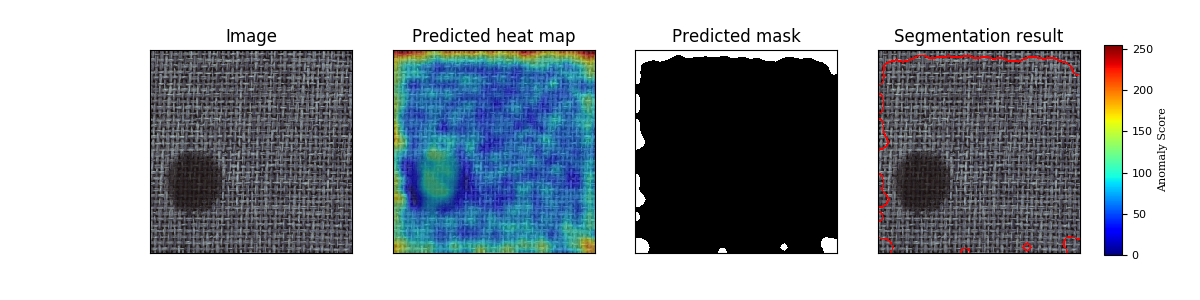
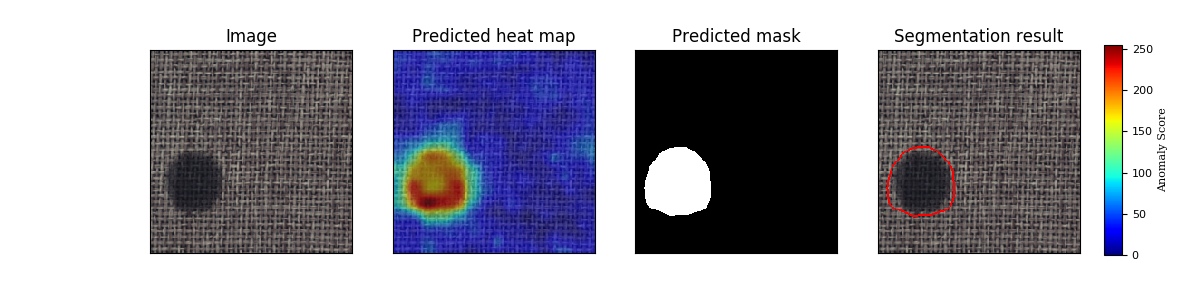
fix infer bug. random seed should be eq to train seed

diff --git a/infer.py b/infer.py
@@ -19,6 +19,7 @@ import argparse
 import pickle
 import numpy as np
 import datetime
+import random
 from PIL import Image
 from random import sample
 from collections import OrderedDict
@@ -64,6 +65,7 @@ def parse_args():
     parser.add_argument("--save_path", type=str, default='./test_tipc/output/')
     parser.add_argument("--category", type=str, default='capsule')
     parser.add_argument("--distribution", type=str, default='./test_tipc/output/distribution')
+    parser.add_argument("--seed", type=int, default=42)
 
     return parser.parse_args()
 
@@ -182,7 +184,7 @@ def postprocess(args, test_imgs, class_name, outputs, distribution):
     test_outputs = OrderedDict([('layer1', []), ('layer2', []), ('layer3', [])])
     # get intermediate layer outputs
     for k, v in zip(test_outputs.keys(), outputs):
-        test_outputs[k].append(v.cpu().detach())
+        test_outputs[k].append(v.detach())
     for k, v in test_outputs.items():
         test_outputs[k] = paddle.concat(v, 0)
 
@@ -194,24 +196,22 @@ def postprocess(args, test_imgs, class_name, outputs, distribution):
         embedding_vectors = paddle.concat((embedding_vectors, layer_embedding), 1)
 
     # randomly select d dimension
-    embedding_vectors = paddle.index_select(embedding_vectors,  idx, 1)
+    embedding_vectors = paddle.index_select(embedding_vectors, idx, 1)
 
     # calculate distance matrix
     B, C, H, W = embedding_vectors.shape
-    embedding_vectors = embedding_vectors.reshape((B, C, H * W)).numpy()
-    dist_list = []
-    for i in range(H * W):
-        mean = distribution[0][:, i]
-        conv_inv = np.linalg.inv(distribution[1][:, :, i])
-        dist = [mahalanobis(sample[:, i], mean, conv_inv) for sample in embedding_vectors]
-        dist_list.append(dist)
+    embedding = embedding_vectors.reshape((B, C, H * W))
+    # calculate mahalanobis distances
+    mean, covariance = paddle.to_tensor(distribution[0]), paddle.to_tensor(distribution[1])
+    inv_covariance = paddle.linalg.inv(covariance.transpose((2, 0, 1)))
 
-    dist_list = np.array(dist_list).transpose(1, 0).reshape(B, H, W)
-    # upsample
-    dist_list = paddle.to_tensor(dist_list)
-    score_map = F.interpolate(dist_list.unsqueeze(1), size=(224,224), mode='bilinear',
-                              align_corners=False).squeeze(1).numpy()
+    delta = (embedding - mean).transpose((2, 0, 1))
 
+    distances = (paddle.matmul(delta, inv_covariance) * delta).sum(2).transpose((1, 0))
+    distances = distances.reshape((B, H, W))
+    distances = paddle.sqrt(distances)
+    score_map = F.interpolate(distances.unsqueeze(1), size=(224,224), mode='bilinear',
+                            align_corners=False).squeeze(1).numpy()
 
     # apply gaussian smoothing on the score map
     for i in range(score_map.shape[0]):
@@ -284,6 +284,9 @@ def denormalization(x):
 
 def main():
     args = parse_args()
+
+    random.seed(args.seed)
+    paddle.seed(args.seed)
 
     model_name = 'PaDiM'
     print(f"Inference model({model_name})...")
@@ -374,7 +377,7 @@ def main():
             output_data = output_tensor.copy_to_cpu()
             results.append(output_data)
 
-        # postprocess(args, test_imgs, args.category, results, distribution) # 可视化
+        postprocess(args, test_imgs, args.category, results, distribution) # 可视化
 
         # get post process time cost
         if args.enable_benchmark:

diff --git a/README.md b/README.md
@@ -136,18 +136,19 @@ TIPC结果：
 - 预训练模型的静态图导出与推理测试：
 
 ```shell
-python export_model.py --depth 18 --img_size=224 --model_path=./test_tipc/output/carpet/best.pdparams --save_dir=./test_tipc/output
+python export_model.py --depth 18 --img_size=224 --model_path=./output/carpet/best.pdparams --save_dir=./output
 ```
 注意：由于该算法并不训练模型，仅仅由预训练模型生成数据分布数据，因此导出分为两个部分，一部分是预训练模型（`model.pdiparams,model.pdmodel`），一部分是分布数据(`distribution`)。
 
 ```shell
-python infer.py --use_gpu=True --model_file=./test_tipc/output/model.pdmodel --input_file=./test_tipc/data/capsule/test/crack/001.png --params_file=./test_tipc/output/model.pdiparams --category=carpet  --distribution=./test_tipc/output/distribution
+!python infer.py --use_gpu=True --model_file=output/model.pdmodel --input_file=/home/aistudio/data/carpet/test/color/000.png --params_file=output/model.pdiparams --category=carpet  --distribution=./output/distribution --save_path=./output --seed=42
 ```
 可正常导出与推理。
+推理结果与动态图一致。
+![infer](asserts/carpet_0_infer.png)
 
 注意：
-- 由于算法本身对于数据精度，也就是小数点位数异常敏感（不同小数点位数，算出来的分布匹配情况是不一样的，导致即使可以导出推理，**backbone特征提取数据一致,后处理代码一模一样的情况下其结果会与动态图也不一致**。因此该算法并不适合动静态转换）
-- test_tipc时的infer，由于test_tipc限制了可视化环境。开启可视化会报错。注释掉infer 377行。
+- test_tipc时的infer，由于test_tipc限制了可视化环境。开启可视化会报错。需要**注释掉infer 380行的后处理步骤**。
 
 ## 5 代码结构与说明
 **代码结构**
